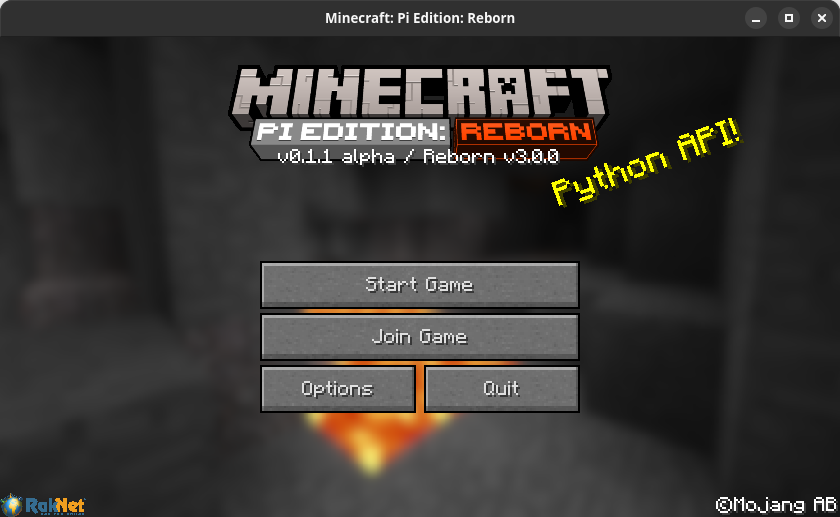
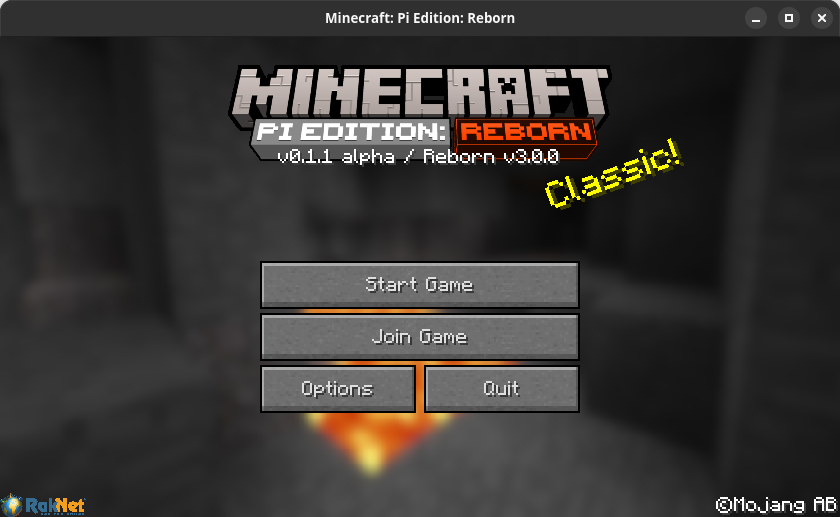
Fix #135 And Fix #130

Changed region(s): [[0.65, 0.2166, 0.8976, 0.4023]]

diff --git a/mods/src/title-screen/splashes.cpp b/mods/src/title-screen/splashes.cpp
@@ -2,6 +2,7 @@
 #include <cmath>
 
 #include <libreborn/patch.h>
+#include <libreborn/env/env.h>
 
 #include <symbols/minecraft.h>
 #include <GLES/gl.h>
@@ -36,7 +37,9 @@ struct SplashLine {
     static constexpr float min_scale = 0.6f;
     static constexpr float padding = (1.0f / 18.0f);
     const StartMenuScreen *screen;
-    explicit SplashLine(const StartMenuScreen *screen_, const float y_factor_): y_factor(y_factor_), screen(screen_) {}
+    explicit SplashLine(const StartMenuScreen *screen_, const float y_factor_):
+        y_factor(y_factor_), screen(screen_) {}
+
     // Get Origin
     [[nodiscard]] float origin_x() const {
         return (float(screen->width) / 2.0f) + x_offset;
@@ -54,6 +57,7 @@ struct SplashLine {
     [[nodiscard]] static float angle_rad() {
         return angle * float(M_PI / 180.0f);
     }
+
     // Find Endpoint
     [[nodiscard]] float from_x(float x) const {
         x -= origin_x();
@@ -68,6 +72,7 @@ struct SplashLine {
         const float end_y = float(screen->width) * padding;
         return std::min(from_x(end_x), from_y(end_y));
     }
+
     // Get Scale
     [[nodiscard]] float get_max_scale(bool &bad_y_factor) const {
         float region = get_region();
@@ -85,13 +90,14 @@ struct SplashLine {
     }
 };
 
-// Add Splashes
+// Draw Splash
 static std::string current_splash;
 static bool draw_splash(const StartMenuScreen *screen, const float y_factor, const bool allow_bad_y_factor) {
     // Position
     const SplashLine line(screen, y_factor);
     const float x = line.origin_x();
     const float y = line.origin_y();
+
     // Choose Scale
     const float max_width = line.end();
     bool bad_y_factor = false;
@@ -107,29 +113,39 @@ static bool draw_splash(const StartMenuScreen *screen, const float y_factor, con
         scale *= multiplier;
         splash_width *= multiplier;
     }
+
     // Position
     media_glPushMatrix();
     media_glTranslatef(x, y, 0.0f);
     // Rotate
     media_glRotatef(SplashLine::angle, 0.0f, 0.0f, 1.0f);
+
     // Oscillate
-    const float timeMS = float(Common::getTimeMs() % 1000) / 1000.0f;
-    const float time = 4.0f * float(M_PI) * timeMS;
-    float oscillation = 0.1f;
-    oscillation /= 2.0f;
-    oscillation = 1.0f + (oscillation * Mth::cos(time)) - oscillation;
-    scale *= oscillation;
+    const bool enable_oscillation = !is_env_set(MCPI_PROMOTIONAL_ENV);
+    if (enable_oscillation) {
+        const float timeMS = float(Common::getTimeMs() % 1000) / 1000.0f;
+        const float time = 4.0f * float(M_PI) * timeMS;
+        float oscillation = 0.1f;
+        oscillation /= 2.0f;
+        oscillation = 1.0f + (oscillation * Mth::cos(time)) - oscillation;
+        scale *= oscillation;
+    }
+
     // Scale
     media_glTranslatef(splash_width / 2.0f, 0, 0);
     media_glScalef(scale, scale, 1);
     media_glTranslatef(-text_width / 2.0f, 0, 0);
+
     // Render
-    float y_offset = -float(line_height - 1) / 2.0f;
+    constexpr float y_offset = -float(line_height - 1) / 2.0f;
     screen->font->drawShadow(current_splash, 0, y_offset, 0xffff00);
+
     // Finish
     media_glPopMatrix();
     return true;
 }
+
+// Pick Splash To Draw
 static void StartMenuScreen_render_injection(StartMenuScreen_render_t original, StartMenuScreen *screen, const int mouse_x, const int mouse_y, const float param_1) {
     // Call Original Method
     original(screen, mouse_x, mouse_y, param_1);
@@ -148,7 +164,11 @@ static void StartMenuScreen_render_injection(StartMenuScreen_render_t original, 
     if (!splashes.empty()) {
         // Pick Splash
         if (current_splash.empty()) {
-            current_splash = splashes[rand() % splashes.size()];
+            int id = 0;
+            if (!is_env_set(MCPI_PROMOTIONAL_ENV)) {
+                id = rand() % splashes.size();
+            }
+            current_splash = splashes[id];
         }
         // Draw
         float y_factor = 2.0f;

diff --git a/mods/src/chat/ui.cpp b/mods/src/chat/ui.cpp
@@ -1,6 +1,5 @@
 #include <symbols/minecraft.h>
 
-#include <mods/chat/chat.h>
 #include <mods/text-input-box/TextInputScreen.h>
 #include <mods/misc/misc.h>
 #include <mods/touch/touch.h>
@@ -19,17 +18,21 @@ void _chat_clear_history() {
 
 // Structure
 struct ChatScreen final : TextInputScreen {
-    TextInputBox *chat;
-    Button *send;
-    int history_pos;
+    TextInputBox *chat = nullptr;
+    Button *send = nullptr;
+    int history_pos = 0;
     const std::string starting_text;
+
     // Construction
-    ChatScreen(std::string start_text) : TextInputScreen(), starting_text(start_text) {
-    }
+    explicit ChatScreen(const std::string &start_text):
+        TextInputScreen(),
+        starting_text(start_text) {}
+
     // Init
     std::vector<std::string> local_history = {};
     void init() override {
         TextInputScreen::init();
+
         // Text Input
         chat = new TextInputBox;
         m_textInputs->push_back(chat);
@@ -39,23 +42,28 @@ struct ChatScreen final : TextInputScreen {
         history_pos = get_history().size();
         local_history = get_history();
         local_history.push_back("");
+
         // Determine Max Length
         const std::string prefix = _chat_get_prefix(Strings::default_username);
         const int max_length = MAX_CHAT_MESSAGE_LENGTH - prefix.length();
         chat->setMaxLength(max_length);
+
         // Send Button
         send = touch_create_button(1, "Send");
         self->rendered_buttons.push_back(send);
         self->selectable_buttons.push_back(send);
+
         // Hide Chat Messages
         is_in_chat = true;
     }
+
     // Removal
     ~ChatScreen() override {
         is_in_chat = false;
         delete chat;
         send->destructor_deleting();
     }
+
     // Rendering
     void render(const int x, const int y, const float param_1) override {
         // Background
@@ -65,6 +73,7 @@ struct ChatScreen final : TextInputScreen {
         // Call Original Method
         TextInputScreen::render(x, y, param_1);
     }
+
     // Positioning
     void setupPositions() override {
         TextInputScreen::setupPositions();
@@ -77,6 +86,7 @@ struct ChatScreen final : TextInputScreen {
         send->y = self->height - send->height;
         send->x = x + width;
     }
+
     // Key Presses
     void keyPressed(const int key) override {
         if (chat->isFocused()) {
@@ -110,6 +120,7 @@ struct ChatScreen final : TextInputScreen {
         // Call Original Method
         TextInputScreen::keyPressed(key);
     }
+
     // Button Click
     void buttonClicked(Button *button) override {
         if (button == send) {
@@ -122,7 +133,7 @@ struct ChatScreen final : TextInputScreen {
         }
     }
 };
-static Screen *create_chat_screen(std::string starting_text) {
+static Screen *create_chat_screen(const std::string &starting_text) {
     return (new ChatScreen(starting_text))->self;
 }
 

diff --git a/mods/src/textures/textures.cpp b/mods/src/textures/textures.cpp
@@ -7,6 +7,7 @@
 #include <libreborn/patch.h>
 #include <libreborn/util/util.h>
 #include <libreborn/config.h>
+#include <libreborn/env/env.h>
 
 #include <symbols/minecraft.h>
 
@@ -20,24 +21,40 @@
 #include "stb_image.h"
 
 // Animated Water
+static void tick_textures(Textures *textures) {
+    for (DynamicTexture *texture : textures->dynamic_textures) {
+        texture->tick();
+        texture->bindTexture(textures);
+        for (int x = 0; x < texture->texture_size; x++) {
+            for (int y = 0; y < texture->texture_size; y++) {
+                const Texture *data = textures->getTemporaryTextureData(textures->current_texture);
+                const int x_offset = 16 * ((texture->texture_index % 16) + x);
+                const int y_offset = 16 * ((texture->texture_index / 16) + y);
+                media_glTexSubImage2D_with_scaling(data, x_offset, y_offset, 16, 16, 256, 256, texture->pixels);
+            }
+        }
+        if (textures->current_texture == textures->loadTexture("terrain.png", true)) {
+            atlas_update_tile(textures, texture->texture_index, texture->pixels);
+        }
+    }
+}
 static void Minecraft_tick_injection(const Minecraft *minecraft) {
     // Tick Dynamic Textures
     Textures *textures = minecraft->textures;
     if (textures != nullptr) {
-        for (DynamicTexture *texture : textures->dynamic_textures) {
-            texture->tick();
-            texture->bindTexture(textures);
-            for (int x = 0; x < texture->texture_size; x++) {
-                for (int y = 0; y < texture->texture_size; y++) {
-                    const Texture *data = textures->getTemporaryTextureData(textures->current_texture);
-                    const int x_offset = 16 * ((texture->texture_index % 16) + x);
-                    const int y_offset = 16 * ((texture->texture_index / 16) + y);
-                    media_glTexSubImage2D_with_scaling(data, x_offset, y_offset, 16, 16, 256, 256, texture->pixels);
-                }
+        int count = 1;
+        if (is_env_set(MCPI_PROMOTIONAL_ENV)) {
+            // Freeze Animated Textures In Promotional Mode
+            static bool has_run = false;
+            if (!has_run) {
+                count = 40;
+                has_run = true;
+            } else {
+                count = 0;
             }
-            if (textures->current_texture == textures->loadTexture("terrain.png", true)) {
-                atlas_update_tile(textures, texture->texture_index, texture->pixels);
-            }
+        }
+        for (int i = 0; i < count; i++) {
+            tick_textures(textures);
         }
     }
 }

diff --git a/mods/src/benchmark/benchmark.cpp b/mods/src/benchmark/benchmark.cpp
@@ -37,7 +37,7 @@ static void start_world(Minecraft *minecraft) {
 
     // Delete World If It Already Exists
     LevelStorageSource *level_source = minecraft->getLevelSource();
-    std::string name = BENCHMARK_WORLD_NAME;
+    const std::string name = BENCHMARK_WORLD_NAME;
     level_source->deleteLevel(name);
 
     // Select Level
@@ -170,7 +170,7 @@ static bool LevelData_getSpawnMobs_injection(MCPI_UNUSED LevelData_getSpawnMobs_
 // Init Benchmark
 void init_benchmark() {
     // --benchmark: Activate Benchmark
-    const bool active = getenv(_MCPI_BENCHMARK_ENV) != nullptr;
+    const bool active = is_env_set(_MCPI_BENCHMARK_ENV);
     if (active) {
         misc_run_on_update(Minecraft_update_injection);
         // Track Frames

diff --git a/libreborn/src/util/util.cpp b/libreborn/src/util/util.cpp
@@ -71,14 +71,14 @@ void unlock_file(const int fd) {
 
 // Check $DISPLAY
 void reborn_check_display() {
-    if (!getenv("DISPLAY") && !getenv("WAYLAND_DISPLAY")) {
+    if (!is_env_set("DISPLAY") && !is_env_set("WAYLAND_DISPLAY")) {
         ERR("No display attached! Make sure $DISPLAY or $WAYLAND_DISPLAY is set.");
     }
 }
 
 // Home Subdirectory
 const char *get_home_subdirectory_for_game_data() {
-    if (getenv(MCPI_PROFILE_DIRECTORY_ENV) != nullptr) {
+    if (is_env_set(MCPI_PROFILE_DIRECTORY_ENV)) {
         // No Subdirectory When Using Custom Profile Directory
         return "";
     } else if (!reborn_is_server()) {

diff --git a/mods/src/server/server.cpp b/mods/src/server/server.cpp
@@ -30,8 +30,8 @@
 
 // --only-generate: Only Generate World And Then Exit
 static bool only_generate = false;
-__attribute__((constructor)) static void _init_only_generate() {
-    only_generate = getenv(_MCPI_ONLY_GENERATE_ENV) != nullptr;
+static void init_only_generate() {
+    only_generate = is_env_set(_MCPI_ONLY_GENERATE_ENV);
 }
 
 // Server Properties
@@ -284,4 +284,7 @@ void init_server() {
     if (get_server_properties().get_bool(get_property_types().player_data)) {
         _init_server_playerdata();
     }
+
+    // Setup Variables
+    init_only_generate();
 }

diff --git a/libreborn/include/libreborn/env/env.h b/libreborn/include/libreborn/env/env.h
@@ -2,10 +2,12 @@
 
 #include <string>
 
+// Define Variables
 #define ENV(name, ...) constexpr const char *name##_ENV = #name;
 #include "list.h"
 #undef ENV
 
+// Internal Variables
 bool is_env_var_internal(const char *env);
 void clear_internal_env_vars();
 
@@ -15,6 +17,7 @@ void set_and_print_env(const char *name, const char *value);
 
 // Get Value
 const char *require_env(const char *name);
+bool is_env_set(const char *name);
 
 // Convert Variable To Value And Vice-Versa
 struct Flags;

diff --git a/mods/src/misc/ui.cpp b/mods/src/misc/ui.cpp
@@ -461,4 +461,9 @@ void _init_misc_ui() {
     if (feature_has("Fix Held Item Poking Through Screen Overlay", server_disabled)) {
         overwrite_calls(ItemInHandRenderer_renderScreenEffect, ItemInHandRenderer_renderScreenEffect_injection);
     }
+
+    // Hide Cursor In Promotional Mode
+    if (is_env_set(MCPI_PROMOTIONAL_ENV)) {
+        overwrite_calls(Common_renderCursor, nop<Common_renderCursor_t, float, float, Minecraft *>);
+    }
 }

diff --git a/mods/src/title-screen/title-screen.cpp b/mods/src/title-screen/title-screen.cpp
@@ -2,6 +2,7 @@
 #include <cmath>
 
 #include <libreborn/patch.h>
+#include <libreborn/env/env.h>
 #include <symbols/minecraft.h>
 #include <GLES/gl.h>
 
@@ -209,7 +210,7 @@ void init_title_screen() {
     }
 
     // Init Welcome Screen
-    if (feature_has("Add Welcome Screen", server_disabled)) {
+    if (feature_has("Add Welcome Screen", server_disabled) && !is_env_set(MCPI_PROMOTIONAL_ENV)) {
         _init_welcome();
     }
 }

diff --git a/libreborn/include/libreborn/env/list.h b/libreborn/include/libreborn/env/list.h
@@ -22,6 +22,7 @@ ENV(MCPI_API_PORT, "Custom API Port")
 ENV(MCPI_BLOCK_OUTLINE_WIDTH, "Custom Width For Block Outline (In Pixels)")
 ENV(MCPI_GUI_SCALE, "Custom GUI Scale")
 ENV(MCPI_BINARY, "Custom Game Binary")
+ENV(MCPI_PROMOTIONAL, "Promotional Mdoe (Used For Consistent Screenshots)")
 // $HOME
 ENV(_MCPI_HOME, "")
 ENV(MCPI_PROFILE_DIRECTORY, "Custom Profile Directory")

diff --git a/libreborn/src/util/log.cpp b/libreborn/src/util/log.cpp
@@ -29,7 +29,7 @@ void reborn_set_log(const int fd) {
 
 // Debug Logging
 static bool should_print_debug_to_stderr() {
-    return getenv(MCPI_DEBUG_ENV) != nullptr;
+    return is_env_set(MCPI_DEBUG_ENV);
 }
 int reborn_get_debug_fd() {
     return should_print_debug_to_stderr() ? STDERR_FILENO : reborn_get_log_fd();

diff --git a/libreborn/src/patch/cache.cpp b/libreborn/src/patch/cache.cpp
@@ -96,6 +96,7 @@ std::unordered_set<void *> get_virtual_callsites(void *addr) {
 
 // Init
 void init_cache() {
+    DEBUG("Caching Callsites...");
     const std::vector<std::pair<void *, void *>> ranges = {
         {TEXT_START, TEXT_END},
         {RODATA_START, RODATA_END},
